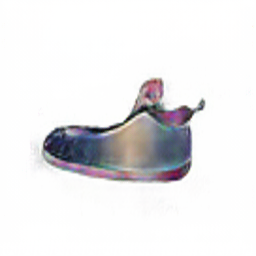
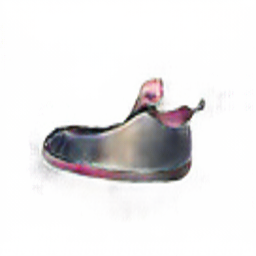
3

Changed region(s): [[0.1562, 0.2812, 0.75, 0.7188]]

diff --git a/server/templates/index.html b/server/templates/index.html
@@ -25,7 +25,7 @@
 		</form>
 		<img src="{{url_for('static', filename = 'img/'+filename.split('/')[-1] if filename else filename )}}" alt="아직 업로드된 파일이 없습니다.">
 		<form method="POST" action="/convert" enctype="multipart/form-data">
-			<button id="convert-upload">Convert</button>
+			<button type ="button" onclick="alert('123')"id="convert-upload">Convert</button>
 		</form>
 		<img src="" alt="아직 변환되지 않았습니다.">
 	</div>

diff --git a/server/app.py b/server/app.py
@@ -3,6 +3,7 @@ import os
 import random
 import string
 import sys
+import shutil
 
 
 app = Flask(__name__)
@@ -17,27 +18,39 @@ def index():
 def upload():
         # 임의의 파일 이름 생성
     file = request.files['image']  # 업로드된 파일 가져오기
-    filename = ''.join(random.choices(string.ascii_lowercase + string.digits, k=8)) + '.jpg'
+    filename = ''.join(random.choices(string.ascii_lowercase + string.digits, k=8)) + '.png'
 
-    #static/img 안에 저장
-    file.save(os.path.join('static/img', filename))
+    cdir = os.getcwd().split('\\')[-1]
+    print(os.getcwd())
+    print(cdir)
+    if cdir == 'opensw23-eleven':
+        ()
+    elif cdir == 'server':
+        os.chdir('..')
+    else:
+        os.chdir('opensw23-eleven')
+    # static/img 안에 저장
+    file.save(os.path.join('server/static/img', filename))
+    # test 파일 안 이미지 폴더에 저장
+    shutil.copy('server/static/img/' + filename, 'pytorch-CycleGAN-and-pix2pix-master/datasets/elevenTest/test')
 
-    #테스트 파일 안의 이미지 폴더에 저장
-    file.save(os.path.join('../pytorch-CycleGAN-and-pix2pix-master/datasets//elevenTest/test/', filename))
-#   file.save(os.path.join('uploads', filename))
-
-    modelRun()
+    modelRun(filename)
     return redirect(url_for('show_image', filename=filename))
 
 
-def modelRun():
+def modelRun(filename):
+    filename = filename.split('.')[0]
+    # directory 위치 변경
+    os.chdir("pytorch-CycleGAN-and-pix2pix-master")
+    # test.py 실행
     os.system("python ..\\pytorch-CycleGAN-and-pix2pix-master\\test.py --dataroot datasets/elevenTest --model test --netG unet_256 --direction BtoA --dataset_mode single --norm batch --name edges2shoes_pretrained --gpu_ids -1")
+    # static/img/result 에 저장
+    shutil.copy('results/edges2shoes_pretrained/test_latest/images/'+filename+'_fake.png', '../server/static/img/result/')
     return 
 
 # 저장된 이미지를 보여주는 엔드포인트
 @app.route('/image/<filename>')
 def show_image(filename):
-    
     filename = '../pytorch-CycleGAN-and-pix2pix-master/result/edges2shoes_pretrained/test_latest/images/'+filename
     return render_template('index.html', filename=filename)
 

diff --git a/server/a.py b/server/a.py
@@ -1,0 +1,3 @@
+import os
+
+print(os.getcwd())
